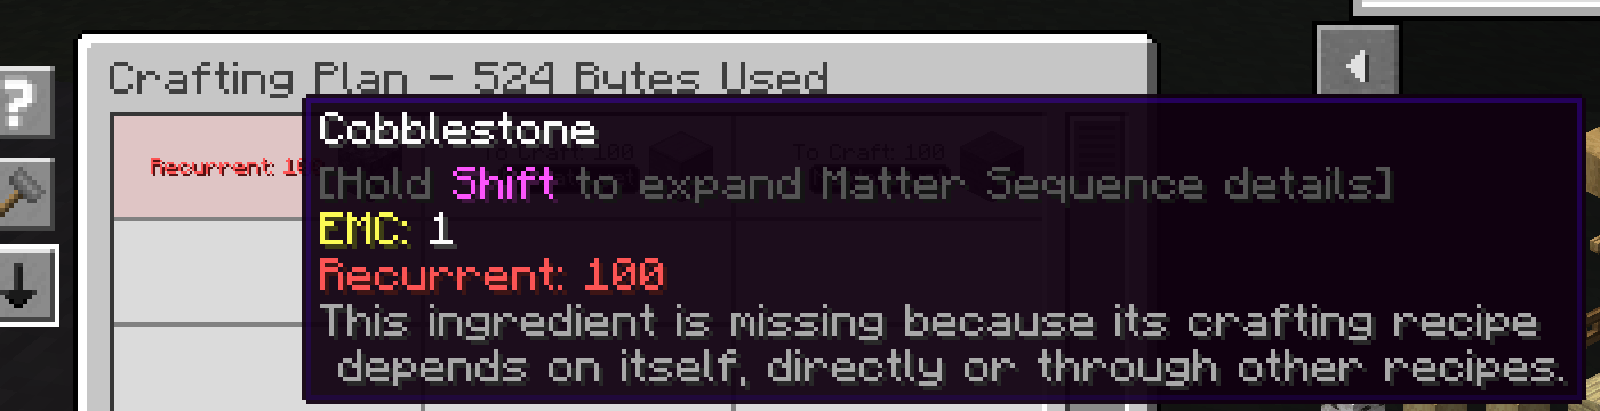
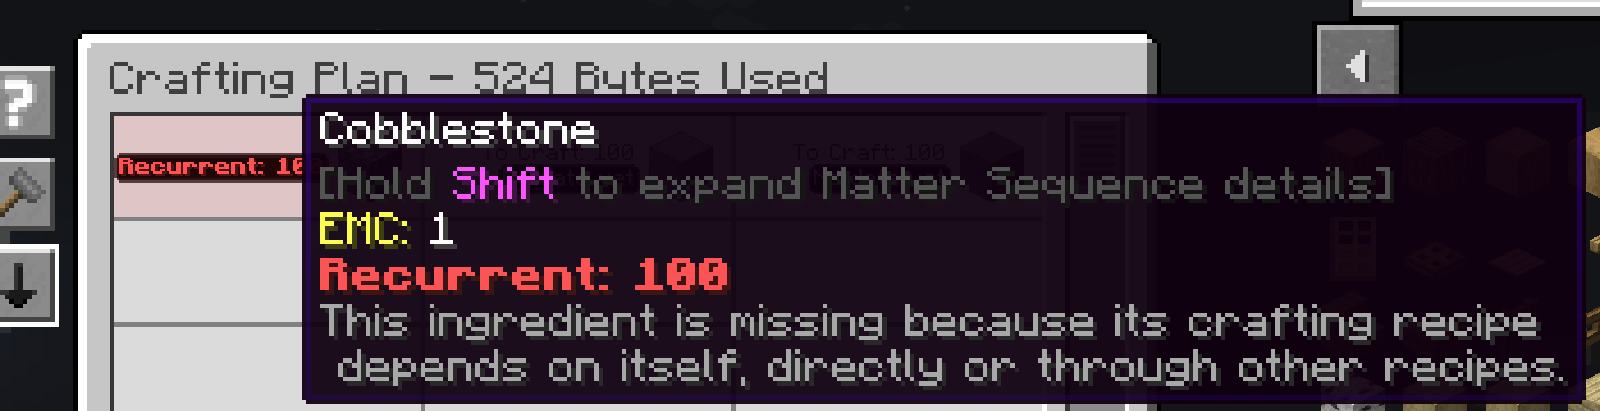
fix: style recurrent crafting warnings (#506)
* fix: style recurrent crafting warnings

* fix(ui): fit large recurrent badges within plan cells

* fix(ui): keep recurrent warning text height

* fix(ui): account for native plan text scale

* docs: refresh recurrent warning guide evidence

Changed region(s): [[0.1875, 0.6131, 0.4688, 0.7299], [0.0625, 0.3504, 0.1875, 0.4672], [0.0, 0.5547, 0.0312, 0.5839]]

diff --git a/shared/src/testDriver1201/java/com/ctux/ae2craftingtime/testdriver/StandardAe2Scenario.java b/shared/src/testDriver1201/java/com/ctux/ae2craftingtime/testdriver/StandardAe2Scenario.java
@@ -34,7 +34,7 @@ final class StandardAe2Scenario {
     static final Map<String, List<String>> CHECKS = Map.ofEntries(
             Map.entry("standard-plan-controls", List.of("plan", "plan-sort", "missing-first", "plan-tooltip",
                     "plan-details", "plan-reset", "total-ttc", "layout", "item-resolution")),
-            Map.entry("recurrent-plan", List.of("recurrent-row", "red-normal", "recurrent-tooltip", "unchanged-quantity",
+            Map.entry("recurrent-plan", List.of("recurrent-row", "red-warning-style", "recurrent-tooltip", "unchanged-quantity",
                     "layout", "variant-clear")),
             Map.entry("stored-variant-plan", List.of("initial-clear", "live-near", "removed-clear",
                     "exact-clear", "restored-near", "gold-normal", "variant-tooltip", "unchanged-plan",
@@ -709,15 +709,21 @@ final class StandardAe2Scenario {
             if (connectedDedicated && RecurrentPlanControl.state().recurrent() != (label != null)) return false;
             if (connectedDedicated && label != null
                     && !label.arguments().equals(List.of(Long.toString(RecurrentCampaign.REQUESTED_AMOUNT)))) return false;
-            if (label != null && (label.bold() || !java.util.Objects.equals(label.color(), 0xFF5555)
+            if (label != null && (!label.bold() || !java.util.Objects.equals(label.color(), 0xFF5555)
                     || label.arguments().size() != 1 || !label.rendered().endsWith(label.arguments().get(0))))
-                throw new IllegalStateException("Recurrence label lost its red normal style or amount");
+                throw new IllegalStateException("Recurrence label lost its red warning style or amount");
+            if (label != null && snapshot.text().stream()
+                    .filter(text -> text.key().equals("text.ae2craftingtime.plan.recurrent"))
+                    .noneMatch(text -> text.bold() && java.util.Objects.equals(text.color(), 0xFF5555)
+                            && text.bounds() != null && snapshot.badges().stream()
+                            .anyMatch(badge -> text.bounds().inside(badge))))
+                throw new IllegalStateException("Recurrent label has no containing rendered badge");
             if (!connectedDedicated && recurrenceFixture.reported() && label != null
                     && !label.arguments().equals(List.of(Long.toString(recurrenceFixture.requestedAmount()))))
                 throw new IllegalStateException("Recurrence label lost requested quantity " + recurrenceFixture.requestedAmount());
             if (!row.cell().inside(snapshot.gui())) throw new IllegalStateException("Recurrence row escapes plan layout");
             mark(checks, "recurrent-row", true);
-            mark(checks, "red-normal", label == null || !label.bold() && java.util.Objects.equals(label.color(), 0xFF5555));
+            mark(checks, "red-warning-style", true);
             mark(checks, "unchanged-quantity", label == null || label.arguments().size() == 1
                     && label.rendered().endsWith(label.arguments().get(0)));
             mark(checks, "layout", row.cell().inside(snapshot.gui()));
@@ -739,6 +745,9 @@ final class StandardAe2Scenario {
                     "text.ae2craftingtime.plan.stored_variant"))) return false;
             var recurrent = snapshot.tooltip().stream().anyMatch(text -> text.key().equals("text.ae2craftingtime.plan.recurrent_hint"));
             if (recurrenceHover != recurrent) return false;
+            if (recurrenceHover && snapshot.tooltip().stream().noneMatch(text ->
+                    text.key().equals("text.ae2craftingtime.plan.recurrent") && text.bold()
+                            && java.util.Objects.equals(text.color(), 0xFF5555))) return false;
             if (connectedDedicated) {
                 var action = recurrenceCaptured ? "captured" : recurrenceRejoined ? "rejoined" : recurrenceSwapped ? "swapped" : recurrenceVisited ? "grid" : "initial";
                 var observedMenu = ((CraftConfirmScreen) minecraft.screen).getMenu();

diff --git a/shared/src/mc1201Test/java/com/ctux/ae2craftingtime/mc1201/TtcTextTest.java b/shared/src/mc1201Test/java/com/ctux/ae2craftingtime/mc1201/TtcTextTest.java
@@ -54,15 +54,15 @@ class TtcTextTest {
 
     @ParameterizedTest
     @CsvSource({"en_us, Recurrent", "uk_ua, Циклічне"})
-    void recurrencePreservesNativeAmountAndUsesNormalRedLocalizedText(String locale, String label) throws IOException {
+    void recurrencePreservesNativeAmountAndUsesBoldRedLocalizedText(String locale, String label) throws IOException {
         var amount = "1.25 M mB";
         var component = TtcText.recurrent(amount);
         var contents = (TranslatableContents) component.getContents();
         assertEquals("text.ae2craftingtime.plan.recurrent", contents.getKey());
         assertEquals(List.of(amount), List.of(contents.getArgs()));
-        assertFalse(component.getStyle().isBold());
+        assertTrue(component.getStyle().isBold());
         assertEquals(TextColor.fromLegacyFormat(ChatFormatting.RED), component.getStyle().getColor());
-        assertFalse(com.ctux.ae2craftingtime.core.CraftingRowState.isBadge(contents.getKey()));
+        assertTrue(com.ctux.ae2craftingtime.core.CraftingRowState.isBadge(contents.getKey()));
         var hint = (TranslatableContents) TtcText.recurrentHint().getContents();
         assertEquals("text.ae2craftingtime.plan.recurrent_hint", hint.getKey());
         assertEquals(0, hint.getArgs().length);

diff --git a/shared/src/mc1201/java/com/ctux/ae2craftingtime/mc1201/mixin/AbstractTableRendererMixin.java b/shared/src/mc1201/java/com/ctux/ae2craftingtime/mc1201/mixin/AbstractTableRendererMixin.java
@@ -47,6 +47,20 @@ public abstract class AbstractTableRendererMixin {
             var isAe2CraftingTime = translatable.getKey().startsWith("text.ae2craftingtime.");
             if (isAe2CraftingTime && ae2craftingtime$isTtcLine(translatable)) {
                 var width = font.width(text);
+                var scale = translatable.getKey().equals("text.ae2craftingtime.plan.recurrent")
+                        ? CraftingRowState.recurrentTextScale(width) : 1f;
+                if (scale < 1f) {
+                    var left = x + width - CraftingRowState.RECURRENT_TEXT_WIDTH;
+                    TtcBadge.fillRoundedRect(guiGraphics, left - 2, y - 2, x + width + 2,
+                            y + font.lineHeight + 2, TtcBadge.BACKGROUND);
+                    var pose = guiGraphics.pose();
+                    pose.pushPose();
+                    pose.translate(left, y, 0);
+                    pose.scale(scale, 1, 1);
+                    guiGraphics.drawString(font, text, 0, 0, color, true);
+                    pose.popPose();
+                    return x + width;
+                }
                 TtcBadge.fillRoundedRect(guiGraphics, x - 2, y - 2, x + width + 2, y + font.lineHeight + 2,
                         TtcBadge.BACKGROUND);
             }

diff --git a/shared/src/mc2612/java/com/ctux/ae2craftingtime/mc1201/mixin/AbstractTableRendererMixin.java b/shared/src/mc2612/java/com/ctux/ae2craftingtime/mc1201/mixin/AbstractTableRendererMixin.java
@@ -47,6 +47,20 @@ public abstract class AbstractTableRendererMixin {
             var isAe2CraftingTime = translatable.getKey().startsWith("text.ae2craftingtime.");
             if (isAe2CraftingTime && ae2craftingtime$isTtcLine(translatable)) {
                 var width = font.width(text);
+                var scale = translatable.getKey().equals("text.ae2craftingtime.plan.recurrent")
+                        ? CraftingRowState.recurrentTextScale(width) : 1f;
+                if (scale < 1f) {
+                    var left = x + width - CraftingRowState.RECURRENT_TEXT_WIDTH;
+                    TtcBadge.fillRoundedRect(guiGraphics, left - 2, y - 2, x + width + 2,
+                            y + font.lineHeight + 2, TtcBadge.BACKGROUND);
+                    var pose = guiGraphics.pose();
+                    pose.pushMatrix();
+                    pose.translate(left, y);
+                    pose.scale(scale, 1);
+                    guiGraphics.text(font, text, 0, 0, color, true);
+                    pose.popMatrix();
+                    return;
+                }
                 TtcBadge.fillRoundedRect(guiGraphics, x - 2, y - 2, x + width + 2, y + font.lineHeight + 2,
                         TtcBadge.BACKGROUND);
             }

diff --git a/shared/src/main/java/com/ctux/ae2craftingtime/core/CraftingRowState.java b/shared/src/main/java/com/ctux/ae2craftingtime/core/CraftingRowState.java
@@ -1,15 +1,21 @@
 package com.ctux.ae2craftingtime.core;
 
 public final class CraftingRowState {
+    // AE2 draws table descriptions at half scale: 90 font pixels occupy 45 screen pixels.
+    public static final int RECURRENT_TEXT_WIDTH = 90;
     private static final java.util.Set<String> BADGE_KEYS = java.util.Set.of(
             "text.ae2craftingtime.ttc", "text.ae2craftingtime.ttc_delayed", "text.ae2craftingtime.waiting",
             "text.ae2craftingtime.no_space", "text.ae2craftingtime.no_provider", "text.ae2craftingtime.no_power",
             "text.ae2craftingtime.no_channel",
             "text.ae2craftingtime.no_target", "text.ae2craftingtime.input_blocked",
-            "text.ae2craftingtime.locked");
+            "text.ae2craftingtime.locked", "text.ae2craftingtime.plan.recurrent");
 
     public static boolean isBadge(String translationKey) {
         return BADGE_KEYS.contains(translationKey);
+    }
+
+    public static float recurrentTextScale(int width) {
+        return width > RECURRENT_TEXT_WIDTH ? (float) RECURRENT_TEXT_WIDTH / width : 1f;
     }
 
     private CraftingRowState() {

diff --git a/shared/src/test/java/com/ctux/ae2craftingtime/core/CraftingRowStateTest.java b/shared/src/test/java/com/ctux/ae2craftingtime/core/CraftingRowStateTest.java
@@ -8,10 +8,16 @@ import org.junit.jupiter.params.provider.CsvSource;
 class CraftingRowStateTest {
     @ParameterizedTest
     @CsvSource({"ttc,true", "ttc_delayed,true", "waiting,true", "no_space,true", "no_provider,true", "no_power,true",
-            "no_channel,true", "no_target,true", "input_blocked,true", "locked,true",
-            "no_provider.explanation,false", "details_hint,false", "unknown,false"})
+            "no_channel,true", "no_target,true", "input_blocked,true", "locked,true", "plan.recurrent,true",
+            "plan.recurrent_hint,false", "no_provider.explanation,false", "details_hint,false", "unknown,false"})
     void onlyCompactStatusLinesReceiveBadges(String suffix, boolean expected) {
         assertEquals(expected, CraftingRowState.isBadge("text.ae2craftingtime." + suffix));
+    }
+
+    @ParameterizedTest
+    @CsvSource({"0,1", "90,1", "94,0.9574468", "180,0.5"})
+    void recurrentWarningFitsItsNativeTextArea(int width, float expected) {
+        assertEquals(expected, CraftingRowState.recurrentTextScale(width), 0.000001f);
     }
 
     @ParameterizedTest

diff --git a/shared/src/mcCommon/java/com/ctux/ae2craftingtime/mc1201/TtcText.java b/shared/src/mcCommon/java/com/ctux/ae2craftingtime/mc1201/TtcText.java
@@ -18,7 +18,7 @@ import java.util.Optional;
 public final class TtcText {
     public static MutableComponent recurrent(Object... arguments) {
         return Component.translatable("text.ae2craftingtime.plan.recurrent", arguments)
-                .withStyle(style -> style.withColor(ChatFormatting.RED).withBold(false));
+                .withStyle(style -> style.withColor(ChatFormatting.RED).withBold(true));
     }
 
     public static MutableComponent recurrentHint() {

diff --git a/shared/src/main/resources/assets/ae2craftingtime/guides/ae2craftingtime/guide/_uk_ua/statuses/recurrent.md b/shared/src/main/resources/assets/ae2craftingtime/guides/ae2craftingtime/guide/_uk_ua/statuses/recurrent.md
@@ -9,10 +9,11 @@ navigation:
 
 **Позначка:** `Циклічне: 1`
 
-Позначка «Циклічне» з'являється в плані крафту до запуску завдання. Червоний
-текст звичайної товщини означає, що AE2 довела: рецепт відсутнього інгредієнта
-неможливо використати, бо він зрештою потребує того самого інгредієнта. Наприклад,
-A може потребувати B, а B — A. Пряма самозалежність і довші цикли працюють так само.
+Позначка «Циклічне» з'являється в плані крафту до запуску завдання. Жирний
+червоний текст на темній заокругленій плашці означає, що AE2 довела: рецепт
+відсутнього інгредієнта неможливо використати, бо він зрештою потребує того
+самого інгредієнта. Наприклад, A може потребувати B, а B — A. Пряма
+самозалежність і довші цикли працюють так само.
 
 Число — це загальна кількість, якої бракує в цьому рядку за даними AE2. Якщо
 рядок поєднує звичайну й циклічну нестачу, він усе одно показує загальну кількість,

diff --git a/docs/images/README.md b/docs/images/README.md
@@ -16,16 +16,17 @@ With timing history available:
 ![Two-stage crafting plan with recipe and total estimates](crafting-plan-estimate.jpg)
 
 The Recurrent guide page uses a reviewed crop from the real native Crafting
-Plan `recurrent-plan` fixture. Its retained source is campaign
-`20260915T054847124Z-2d275585`, path
+Plan `recurrent-plan` fixture. Its retained source is archive
+`20260922T201206763Z-d068777e`, path
 `1.20.1-forge/primary/run/evidence/recurrent-plan/recurrent-plan-tooltip.png`,
-commit `157efbd6b366976f19f91f592da394ceca3c40b2`, SHA-256
[1 lines of base64/hex data omitted]
+commit `9afdd6b0228c5c77eef2bae6ecb149cb799fde8d`, SHA-256
[1 lines of base64/hex data omitted]
 physical crop `[740, 110, 1400, 360]`, exported at 1600 pixels wide. The
-scenario passed its Recurrent row, color, tooltip, quantity, and layout checks;
-the crop was manually reviewed for the exact label and complete explanation.
-The wider campaign's unrelated `rxYaglEe` status-file failure is not treated as
-a full-campaign pass.
+scenario passed its Recurrent row, bold red badge, tooltip, quantity, and layout
+checks; the crop was manually reviewed for the exact label and complete
+explanation. The wider campaign stopped on the unrelated CrazyAE2Addons CPU
+fixture failure tracked in [#507](https://github.com/cTux/ae2-crafting-time/issues/507);
+it is not treated as a full-campaign pass.
 
 When only part of the plan has history, the total covers the known work:
 

diff --git a/shared/src/main/resources/assets/ae2craftingtime/guides/ae2craftingtime/guide/statuses/recurrent.md b/shared/src/main/resources/assets/ae2craftingtime/guides/ae2craftingtime/guide/statuses/recurrent.md
@@ -9,10 +9,11 @@ navigation:
 
 **Label:** `Recurrent: 1`
 
-Recurrent appears in Crafting Plan before you submit a job. Red, normal-weight
-text means AE2 proved that a missing ingredient could not use a recipe because
-that recipe eventually needs the same ingredient again. For example, A may need
-B while B needs A. Direct self-dependencies and longer loops work the same way.
+Recurrent appears in Crafting Plan before you submit a job. Bold red text on a
+rounded dark badge means AE2 proved that a missing ingredient could not use a
+recipe because that recipe eventually needs the same ingredient again. For
+example, A may need B while B needs A. Direct self-dependencies and longer
+loops work the same way.
 
 The number is AE2's total missing amount for that row. A row that combines an
 ordinary shortage with a recurrent one still shows that total; it is not a
